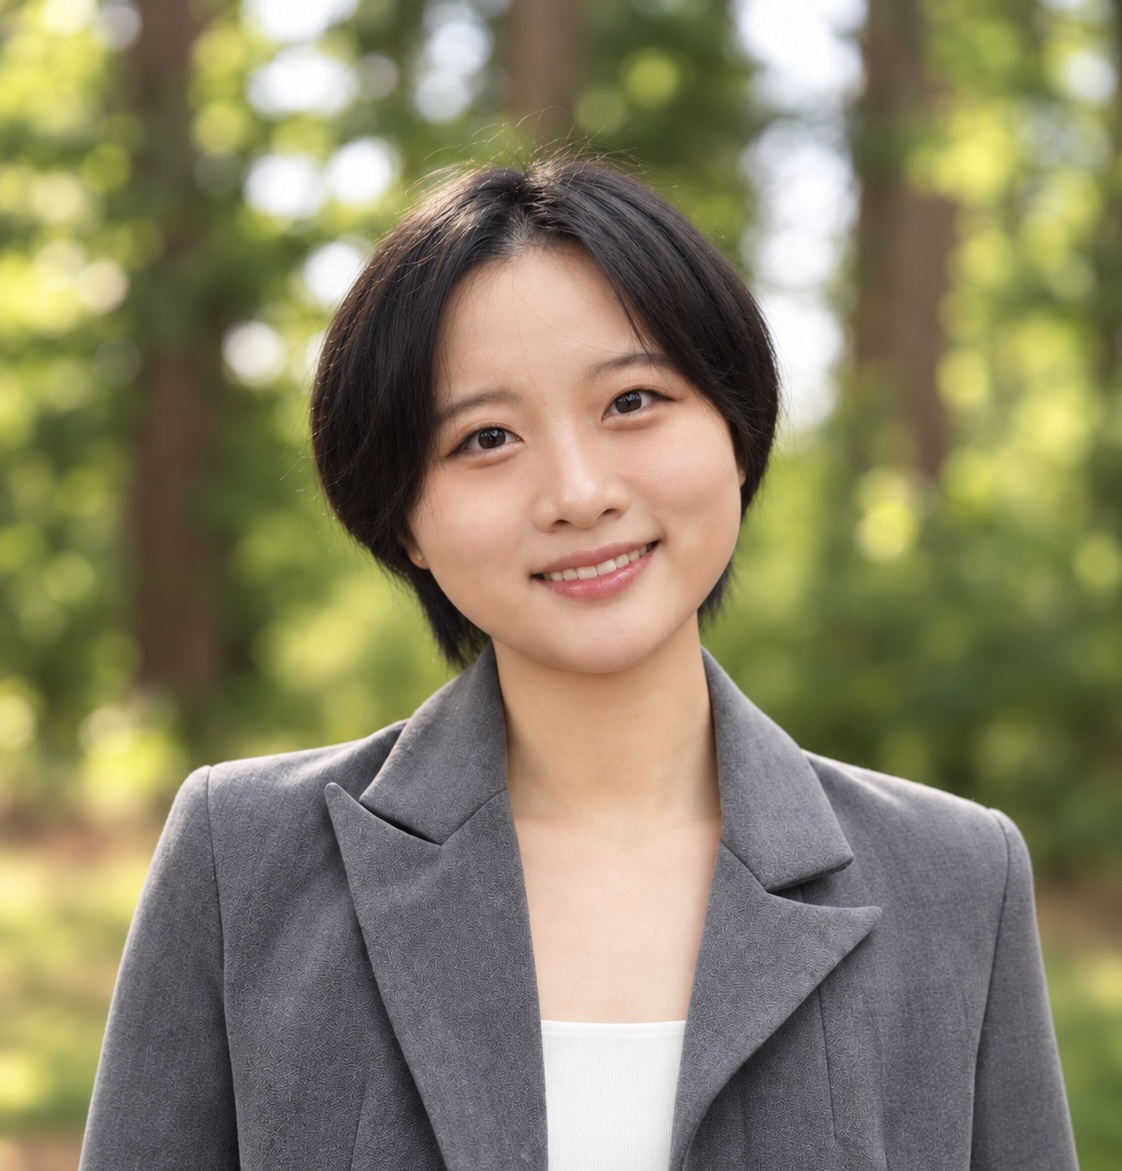
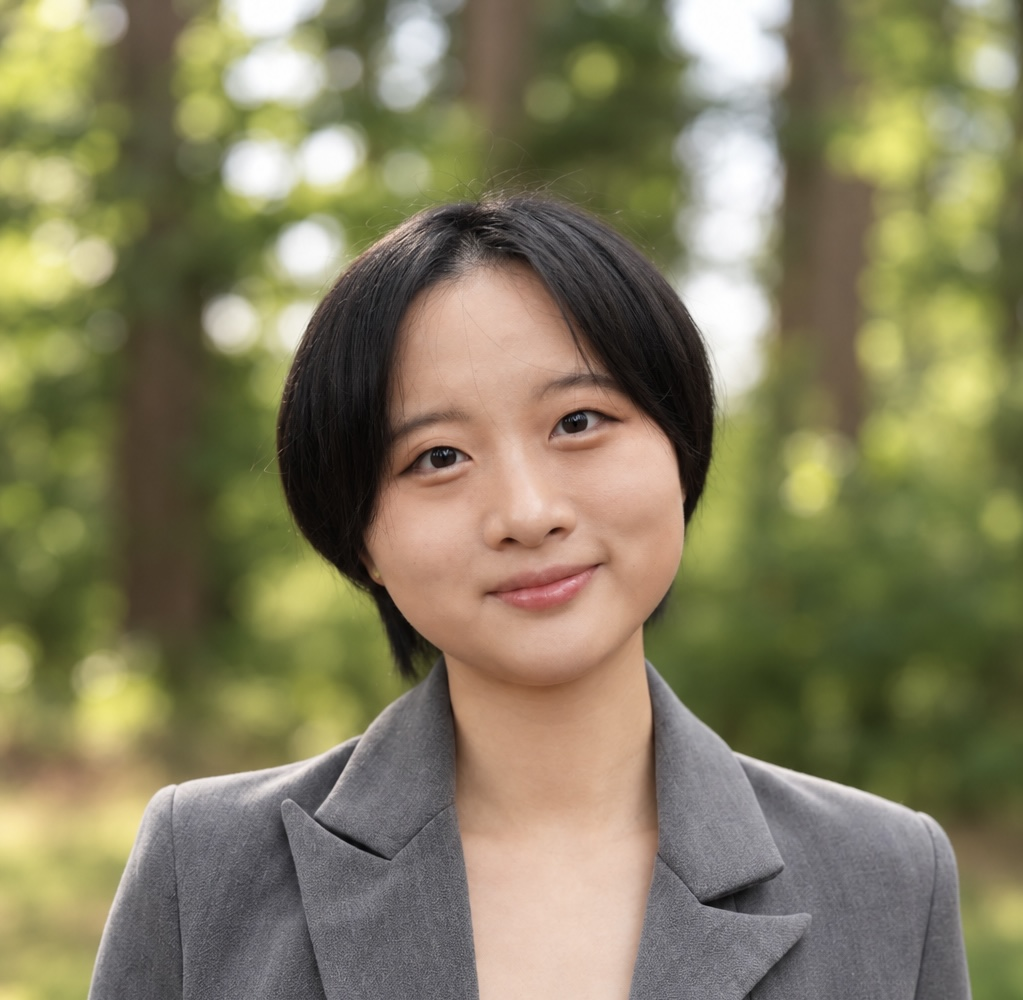
fix

diff --git a/site/assets/styles.css b/site/assets/styles.css
@@ -22,12 +22,11 @@
   --color-muted: #485f74;
   --color-link: #1d5d9d;
   --color-accent: #408bdd;
-  --color-blue: #eaf5ff;
-  --color-pill: #dcedff;
-  --color-white: #ffffff;
-  --color-canvas: #fcfdff;
-  --color-line: #cbdff0;
-  --color-ring: #d5eaff;
+  --color-blue: #edf3f9;
+  --color-pill: #dfeaf5;
+  --color-line: #cbd9e6;
+  --color-ring: #d7e3ee;
+  --color-canvas: #fafcff;
   --shadow-shell: 0 7px 42px rgba(40, 90, 135, 0.12), 0 1px 6px rgba(40, 90, 135, 0.05);
   --shadow-card: 0 2px 9px rgba(40, 85, 125, 0.055);
   --shadow-hover: 0 7px 19px rgba(40, 85, 125, 0.12);
